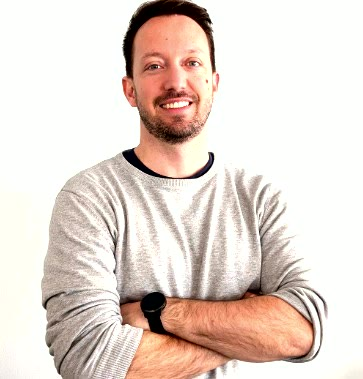
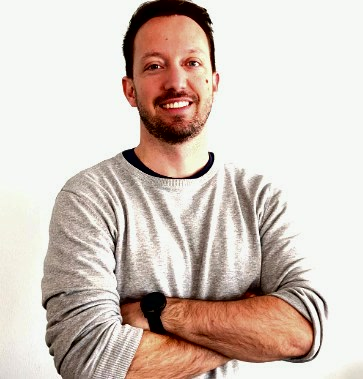
Darken founder portraits further for Chi siamo
Stronger exposure/contrast pass so washed-out headshots read clearer on desktop.

diff --git a/src/styles/global.css b/src/styles/global.css
@@ -501,7 +501,7 @@ h3,
   object-fit: cover;
   object-position: top center;
   margin: 0;
-  filter: contrast(1.08) saturate(1.05);
+  filter: contrast(1.12) brightness(0.96) saturate(1.06);
 }
 
 .founder-copy {
